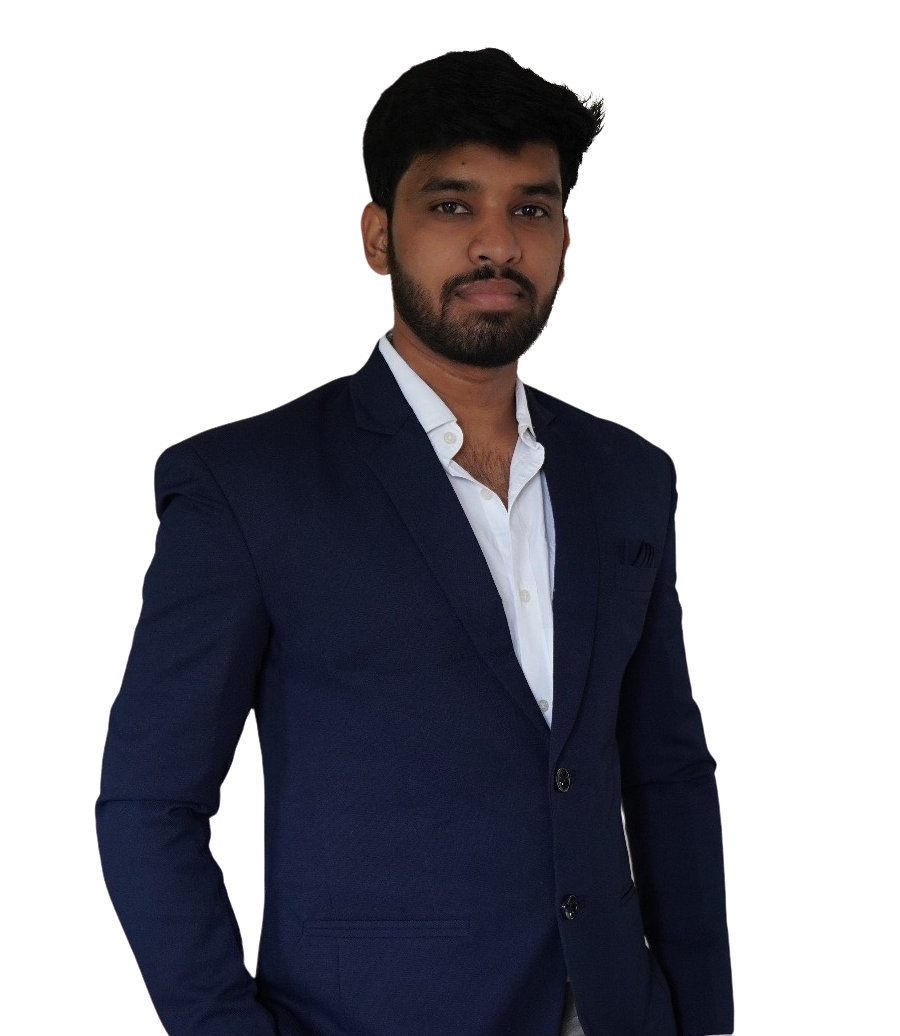
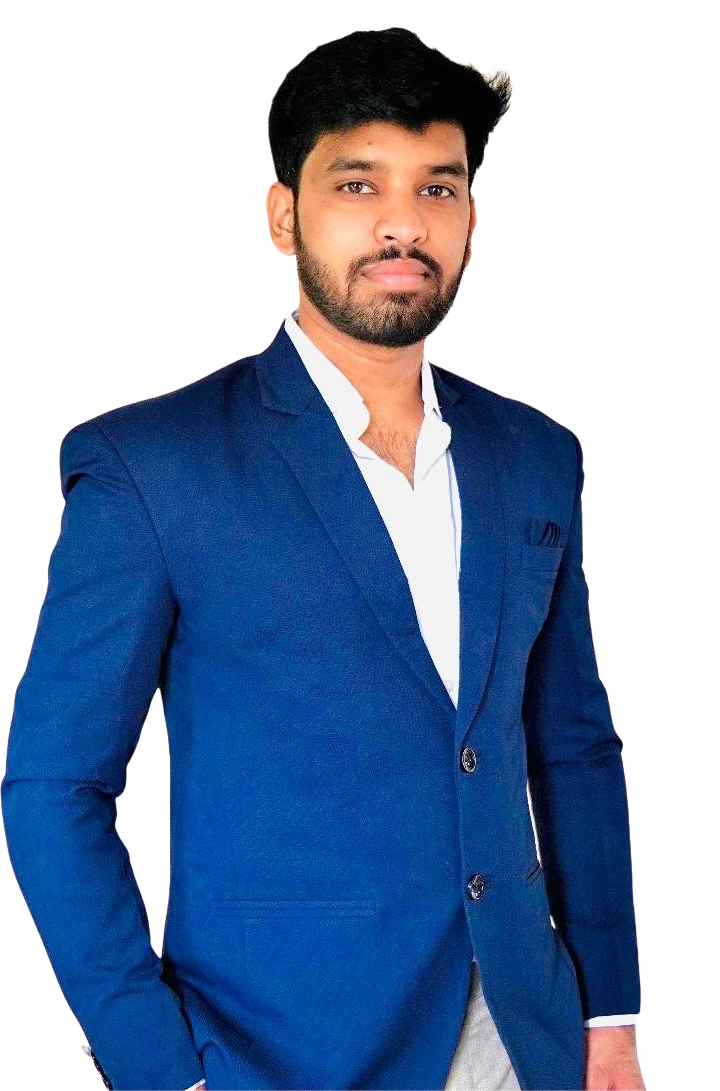
Prepare for deployment

diff --git a/src/MainContent.js b/src/MainContent.js
@@ -153,7 +153,7 @@ const MainContent = () => {
             <p className="ceo-name">Akshay Amri, CEO & Founder</p>
           </div>
           <div className="ceo-image">
-            <img src="AkshayAmri.jpeg" alt="CEO" />
+            <img src="AkshayAmri.png" alt="CEO" />
           </div>
         </div>
       </div>
